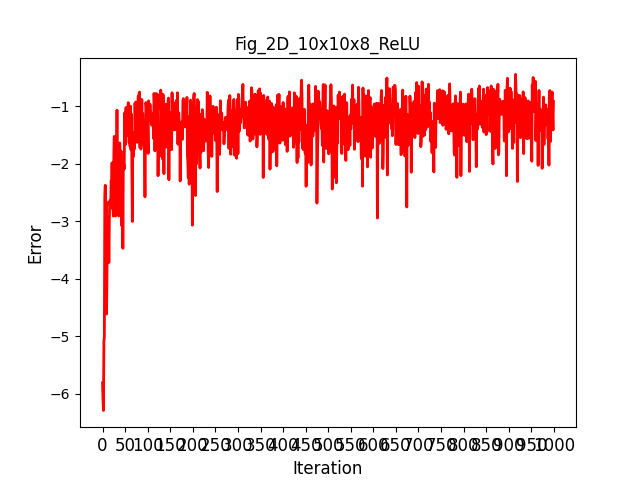
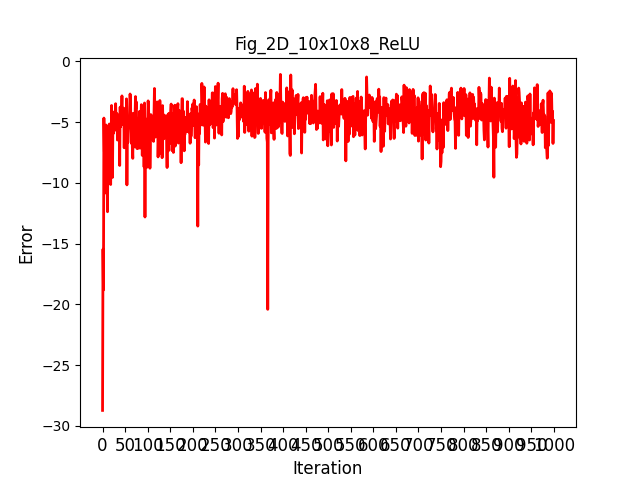
code correct but accuracy low

diff --git a/neuromancer/ANN.py b/neuromancer/ANN.py
@@ -15,31 +15,48 @@ def relu(x):
 	return x
 
 def set_distance(x1, x2):
-	Σ = 0.0
+	Σ, Σ1, Σ2 = 0.0, 0.0, 0.0
+
 	for i in range(N):
 		for j in range(N):
-			Σ += numpy.abs(x1[i] - x2[j]) * 2 \
-			   - numpy.abs(x1[i] - x1[j]) \
-			   - numpy.abs(x2[i] - x2[j])
-	dx = Σ / (N**2)
-	if dx < -1e-10:
+			Σ += (x1[i] - x2[j]) **2
+
+	for i in range(N):
+		for j in range(N):
+			Σ1 += (x1[i] - x1[j]) **2
+
+	for i in range(N):
+		for j in range(N):
+			Σ2 += (x2[i] - x2[j]) **2
+
+	dx = (2 * numpy.sqrt(Σ / N) - numpy.sqrt(Σ1 / N) - numpy.sqrt(Σ2 / N)) / 2
+
+	if dx < 0.0:
 		print("x1=", x1)
 		print("x2=", x2)
+		print("Σ=", Σ)
 		print("Σ1=", Σ1)
 		print("Σ2=", Σ2)
-		print("Σ3=", Σ3)
 		print("dx=", dx)
-		raise ValueError("distance < 0")
-	# else:
-		# print("dx=", dx)
-		# print(".", end='')
+		# raise ValueError("distance < 0")
 	return dx
 
 def distance(y1, y2):
 	Σ = 0.0
 	for i in range(N):
-		Σ += (y1[i] - y2[i])**2
+		Σ += (y1[i] - y2[i]) ** 2
 	return numpy.sqrt(Σ)
+
+"""
+import ast
+
+while(True):
+	x1 = ast.literal_eval(input("x1=? "))
+	x2 = ast.literal_eval(input("x2=? "))
+	print(set_distance(x1, x2))
+
+exit(0)
+"""	
 
 # ***** Old functions, no longer useful *****
 
@@ -61,8 +78,8 @@ def threshold2(y):
 
 # ***** This miraculously good-looking function was found by serendipity
 def joint_penalty(x, y):
-	k = 1.0			# "Steepness"
-	return numpy.exp(-k * (x**2 + y**2)) - numpy.exp(-2.0 * k * x * y)
+	k = 30.0			# "Steepness"
+	return numpy.exp(-k * (x **2 + y **2)) - numpy.exp(-2.0 * k * x * y)
 
 def perturb(x):
 	if numpy.random.randint(2) > 0:

diff --git a/neuromancer/fit-formula.py b/neuromancer/fit-formula.py
@@ -8,6 +8,11 @@
 # * able to browse formulas in GUI
 # * cache? What's that?
 
+# NOTES on Sage usage:
+# sage: plot3d(exp(-15*(x^2+y^2)),(x,-1,1),(y,-1,1), viewer='tachyon')
+# sage: a = -e^(-2*x*y) + e^(-(x^2+y^2))
+# sage: a.full_simplify()
+
 # SOLVED:
 # * the best formula may not be present in the latest population, but some of his "look-alikes" will
 # * appearance of complex numbers was due to (-1)**fraction
